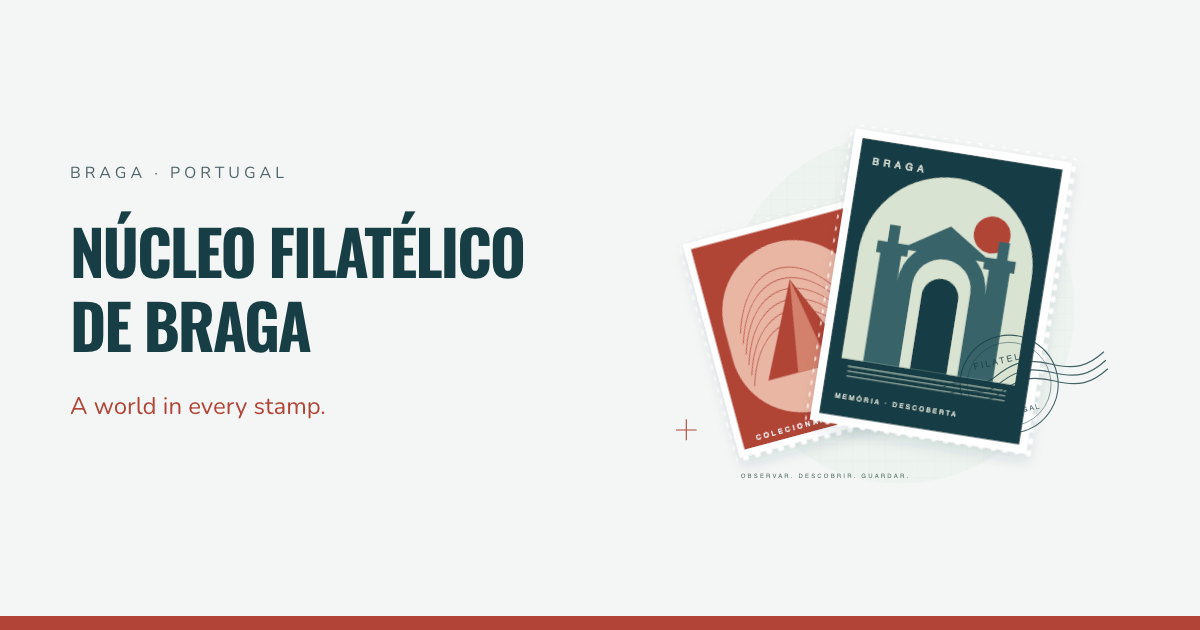
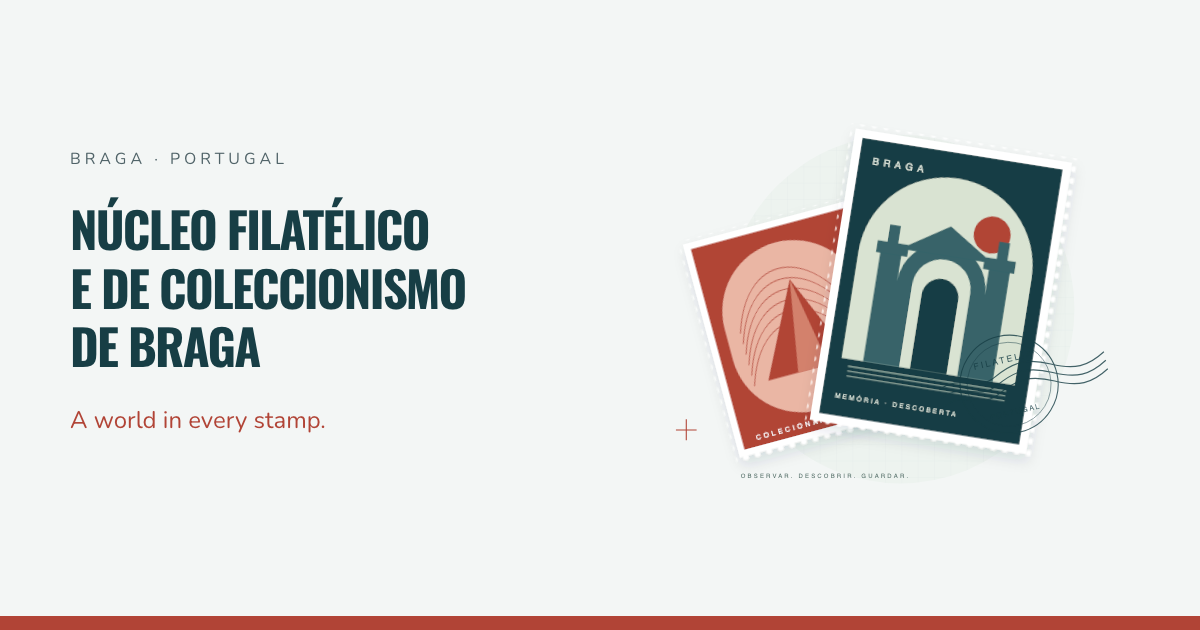
fix: use the association's full official name throughout the site

Changed region(s): [[0.0617, 0.3016, 0.4625, 0.6032], [0.0617, 0.6333, 0.2775, 0.6937], [0.0617, 0.2413, 0.2467, 0.3016]]

diff --git a/layouts/partials/footer.html b/layouts/partials/footer.html
@@ -14,9 +14,7 @@
           {{ else }}
             <span class="nfb-monogram" aria-hidden="true"
               >NFB<span>BRAGA</span></span
-            ><span class="nfb-wordmark"
-              >Núcleo Filatélico<span>de Braga</span></span
-            >
+            ><span class="nfb-wordmark">{{ .Site.Title }}</span>
           {{ end }}
         </a>
         <p>{{ i18n "footer_copy" }}</p>
@@ -55,7 +53,7 @@
       </div>
     </div>
     <div class="footer-bottom">
-      <span>© {{ now.Year }} Núcleo Filatélico de Braga</span>
+      <span>© {{ now.Year }} {{ .Site.Title }}</span>
       <div>
         {{ $credits := "creditos" }}{{ $news := "noticias" }}{{ if eq .Language.Lang "en" }}
           {{ $credits = "credits" }}{{ $news = "news" }}

diff --git a/layouts/magazine/single.html b/layouts/magazine/single.html
@@ -16,7 +16,7 @@
   <article class="magazine-paper">
     <header class="magazine-cover">
       <div class="magazine-masthead">
-        <p>NÚCLEO FILATÉLICO DE BRAGA</p>
+        <p>{{ .Site.Title | upper }}</p>
         <h1 data-pagefind-meta="title">
           A Página <span>do NFB</span
           ><span class="visually-hidden">
@@ -105,7 +105,7 @@
       </section>
     {{ end }}
     <footer class="magazine-colophon">
-      <p>A Página do NFB · Núcleo Filatélico de Braga</p>
+      <p>A Página do NFB · {{ .Site.Title }}</p>
       <p>
         {{ i18n "mag_volume" }} {{ .Params.volume }} ·
         {{ i18n "mag_number" }}

diff --git a/layouts/partials/header.html b/layouts/partials/header.html
@@ -15,9 +15,7 @@
       {{ else }}
         <span class="nfb-monogram" aria-hidden="true"
           >NFB<span>BRAGA</span></span
-        ><span class="nfb-wordmark"
-          >Núcleo Filatélico<span>de Braga</span></span
-        >
+        ><span class="nfb-wordmark">{{ .Site.Title }}</span>
       {{ end }}
     </a>
     <div class="nfb-header__tools">

diff --git a/assets/scss/_nfb.scss b/assets/scss/_nfb.scss
@@ -165,6 +165,7 @@ img {
   margin-top: 3px;
 }
 .nfb-wordmark {
+  max-width: 145px;
   font-size: 14px;
   font-weight: 800;
   line-height: 1.3;
@@ -774,6 +775,7 @@ dd {
     gap: 0 12px;
   }
   .nfb-wordmark {
+    max-width: 110px;
     font-size: 11px;
   }
   .nfb-brand {

diff --git a/docs/quality-audit.md b/docs/quality-audit.md
@@ -92,3 +92,9 @@ Literatura Filatélica tem agora uma ilustração gerada por IA, sem reproduçõ
 `npm test` e `npm run format:check` passaram: 101 fontes publicadas, 108 ficheiros HTML e 3604 referências internas. O cenário isolado confirma a prioridade das atividades reais sobre os exemplos. Os testes de Chrome passaram em PT/EN entre 320 e 1920 px, com dez cartões na homepage atual, sem imagens quebradas ou deslocação horizontal. Capturas da homepage e de Publicações foram revistas visualmente.
 
 A espera ilimitada por `Image.decode()` no teste de navegador foi substituída por uma verificação limitada do carregamento efetivo: a primeira podia ficar pendente num separador oculto durante alterações de imagens responsivas. A revisão concluída usou uma instância isolada de Chrome headless. Não houve publicação externa.
+
+## Atualização do nome oficial
+
+Foi adotado o nome fornecido pelo utilizador: **Núcleo Filatélico e de Coleccionismo de Braga**. A sigla NFB e o foco na filatelia mantêm-se. O nome foi corrigido em PT/EN, na configuração, marca tipográfica, rodapé, conteúdos institucionais, metadados, revista, capa provisória, cartões de partilha e README. A grafia «Coleccionismo» é preservada no nome próprio.
+
+`npm test` e `npm run format:check` passaram. O PDF gerado contém o nome completo. A pesquisa nas fontes e no HTML/XML/JSON publicado não encontrou o nome anterior (ficheiros de trabalho do utilizador e tema excluídos). Os testes Chrome PT/EN entre 320 e 1920 px passaram; capturas da homepage móvel e de portátil, e do cartão social, foram revistas visualmente. O nome do cabeçalho usa agora o título configurado e uma largura limitada para acomodar o texto. Não houve publicação externa.

diff --git a/README.md b/README.md
@@ -1,6 +1,6 @@
-# Núcleo Filatélico de Braga
+# Núcleo Filatélico e de Coleccionismo de Braga
 
-Website bilingue do **Núcleo Filatélico de Braga (NFB)**, uma associação de filatelia e colecionismo sediada em Braga, Portugal. Português europeu é a língua principal (`/`); a versão inglesa está em `/en/`.
+Website bilingue do **Núcleo Filatélico e de Coleccionismo de Braga (NFB)**, uma associação de filatelia e colecionismo sediada em Braga, Portugal. Português europeu é a língua principal (`/`); a versão inglesa está em `/en/`.
 
 O site é estático, construído com **Hugo Extended**, Markdown, SCSS e Pagefind. Mantém o tema Dot Org como submódulo, com adaptações na raiz do projeto. Não necessita de CMS, base de dados ou aplicação no servidor.
 
@@ -91,7 +91,7 @@ Este comando identifica traduções obrigatórias ausentes e falha se encontrar 
 | Publicações | `publicacoes` | `publications` |
 | Contactos   | `contactos`   | `contact`      |
 
-Use português europeu e a grafia **atividades**, **colecionadores**, **contactos**, **direção**, **sócios**. Não traduza o nome próprio da associação.
+Use português europeu e a grafia **atividades**, **colecionadores**, **contactos**, **direção**, **sócios**. Não traduza o nome próprio da associação. Use **Núcleo Filatélico e de Coleccionismo de Braga**, preservando a grafia oficial «Coleccionismo», e mantenha a sigla **NFB**.
 
 ## Criar conteúdos
 

diff --git a/content/pt/_index.md b/content/pt/_index.md
@@ -1,5 +1,5 @@
 ---
-title: Núcleo Filatélico de Braga
+title: Núcleo Filatélico e de Coleccionismo de Braga
 translationKey: home
 description: A promover a filatelia e o colecionismo em Braga desde 1981.
 hero_eyebrow: BRAGA, PORTUGAL · DESDE 1981
@@ -14,7 +14,7 @@ collect_alt: Composição ilustrativa de dois selos imaginários sobre natureza 
 hero_caption: Uma homenagem gráfica à arte de colecionar.
 intro_title: Uma paixão que se partilha.
 intro_text:
-  O Núcleo Filatélico de Braga é uma associação de filatelia e colecionismo sediada em
+  O Núcleo Filatélico e de Coleccionismo de Braga é uma associação de filatelia e colecionismo sediada em
   Braga. Um lugar para aproximar curiosos e colecionadores, partilhar olhares e descobrir as
   histórias que cada selo pode contar.
 collect_title: O próximo destino começa num selo.

diff --git a/content/en/_index.md b/content/en/_index.md
@@ -1,5 +1,5 @@
 ---
-title: Núcleo Filatélico de Braga
+title: Núcleo Filatélico e de Coleccionismo de Braga
 translationKey: home
 description: Promoting philately and stamp collecting in Braga since 1981.
 hero_eyebrow: BRAGA, PORTUGAL · SINCE 1981
@@ -12,7 +12,7 @@ collect_alt: Illustrated composition of two imaginary stamps about nature and he
 hero_caption: A graphic tribute to the art of collecting.
 intro_title: A passion to share.
 intro_text:
-  Núcleo Filatélico de Braga is a philatelic and stamp collecting association based in
+  Núcleo Filatélico e de Coleccionismo de Braga is a philatelic and stamp collecting association based in
   Braga, Portugal. A place for newcomers and collectors to share perspectives and discover the
   stories each stamp can tell.
 collect_title: Your next journey begins with a stamp.

diff --git a/content/pt/sobre/apresentacao.md b/content/pt/sobre/apresentacao.md
@@ -6,10 +6,10 @@ editorial_notes:
   de adesão, conforme a página."
 weight: 1
 description:
-  O Núcleo Filatélico de Braga é uma associação de filatelia e colecionismo sediada em
+  O Núcleo Filatélico e de Coleccionismo de Braga é uma associação de filatelia e colecionismo sediada em
   Braga, Portugal.
 ---
 
-O Núcleo Filatélico de Braga é uma associação de filatelia e colecionismo sediada em Braga, Portugal.
+O Núcleo Filatélico e de Coleccionismo de Braga é uma associação de filatelia e colecionismo sediada em Braga, Portugal.
 
 Este espaço convida a descobrir a filatelia, a conhecer coleções e a partilhar o interesse pelos selos e pela história postal.

diff --git a/content/en/about/about-us.md b/content/en/about/about-us.md
@@ -6,10 +6,10 @@ editorial_notes:
   de adesão, conforme a página."
 weight: 1
 description:
-  Núcleo Filatélico de Braga is a philatelic and stamp collecting association based in
+  Núcleo Filatélico e de Coleccionismo de Braga is a philatelic and stamp collecting association based in
   Braga, Portugal.
 ---
 
-Núcleo Filatélico de Braga is a philatelic and stamp collecting association based in Braga, Portugal.
+Núcleo Filatélico e de Coleccionismo de Braga is a philatelic and stamp collecting association based in Braga, Portugal.
 
 This space invites you to discover philately, explore collections and share an interest in stamps and postal history.

diff --git a/content/pt/contactos/index.md b/content/pt/contactos/index.md
@@ -2,7 +2,7 @@
 title: Contactos
 translationKey: contact
 layout: contact
-description: Informações de contacto do Núcleo Filatélico de Braga.
+description: Informações de contacto do Núcleo Filatélico e de Coleccionismo de Braga.
 contact:
   address: "[A COMPLETAR]"
   email: "[A COMPLETAR]"

diff --git a/content/en/contact/index.md b/content/en/contact/index.md
@@ -2,7 +2,7 @@
 title: Contact
 translationKey: contact
 layout: contact
-description: Contact information for Núcleo Filatélico de Braga.
+description: Contact information for Núcleo Filatélico e de Coleccionismo de Braga.
 contact:
   address: "[A COMPLETAR]"
   email: "[A COMPLETAR]"
